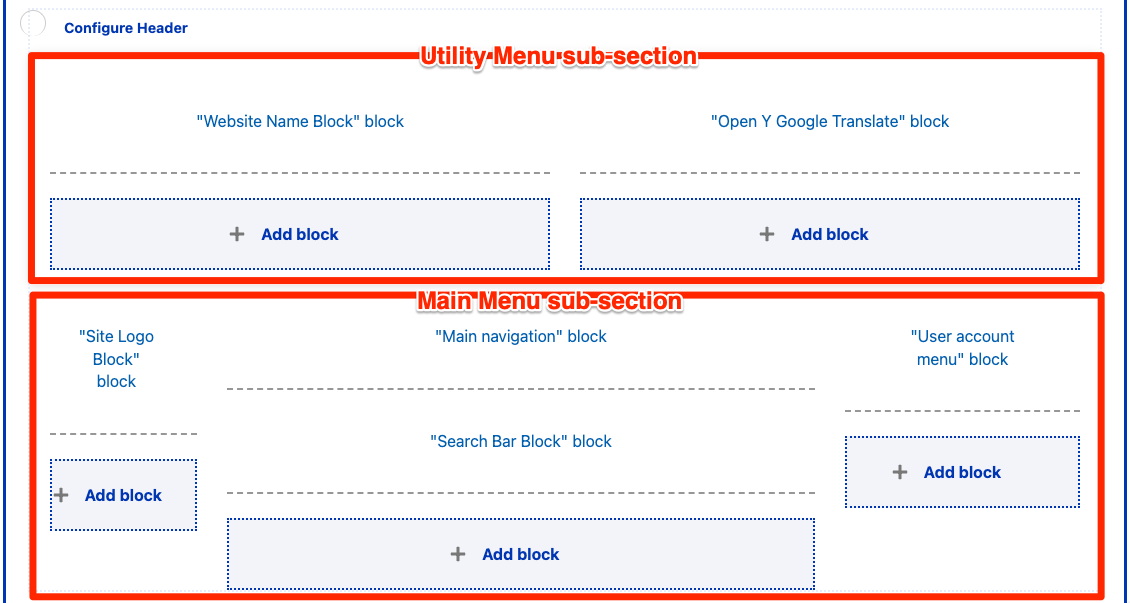
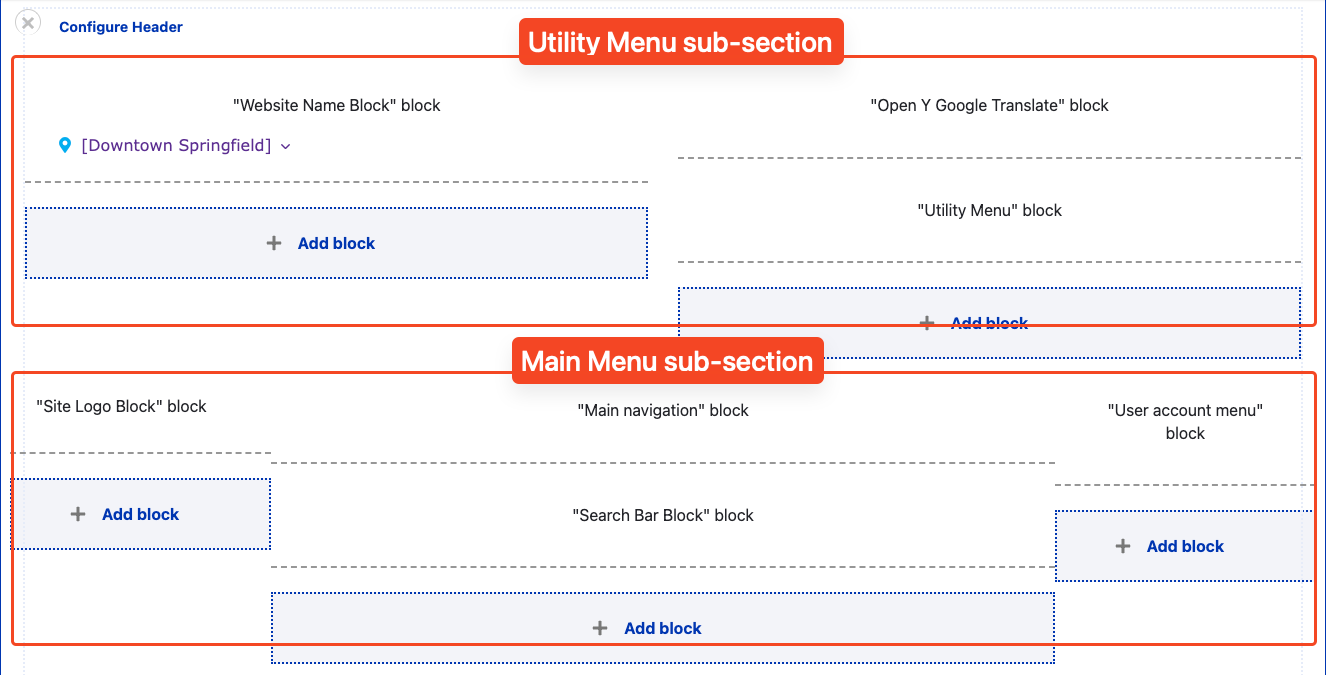
docs: Add lots more small y stuff

diff --git a/content/en/docs/howto/small-y/_index.md b/content/en/docs/howto/small-y/_index.md
@@ -32,6 +32,35 @@ Modules and features included with the Small Y template include:
 
 Any other modules or features of the distribution can be added as needed via the Drupal admin interface.
 
+#### Additions to the main distribution
+
+The Small Y Template provided a number of features back to the main distribution for all YMCA Website Services users to benefit from. These include:
+
+- [Partners/Sponsors](../../user-documentation/layout-builder/partners) block now allow for partners to be split into multiple tiers.
+- [Simple Text/Table](../../user-documentation/layout-builder/table) block now applies responsive table styles more consistently.
+- An additional [Utility Menu](../../user-documentation/layout-builder/header-footer/#utility-menu) has been added to the Header to allow content editors to add additional links in the top right of the header.
+- [Events Listings](../../user-documentation/layout-builder/event-views) and [Articles Listings](../../user-documentation/layout-builder/article-views) have been updated to include a **Number of items** field to limit the number of items displayed.
+- [Alerts](../../user-documentation/content-types/alert) have a new set of styles that follow the colorway color scheme.
+
+#### Small Y Specific Features
+
+The Small Y template includes a few additional features that are not included in the main distribution. These are intended to simplify the setup process for small organizations and add guardrails to keep content consistent.
+
+- Limits have been added to the number of items for the main menu and many components.
+- [Breadcrumbs](../../user-documentation/layout-builder/breadcrumbs) are now automatically added to all pages.
+- Additional variants have been added to the [Banner](../../user-documentation/layout-builder/banner) block. Each banner can be used with the colorway color or grey background.
+  - **Tall** - for use as the primary hero banner on a page.
+  - **Sub-page chevron** - for use as a secondary banner on a page.
+  - **Sub-page chevron (no media)** - for use as a secondary banner on a page with no media.
+  - **Sub-page frame** - for use as a secondary banner on a page with dark text on a white background.
+  - **Promo** - for use as a smaller banner on a page with a call to action and no media. ![A screenshot of the banner variants listed above.](small-y--banner-variants.png)
+- [Ping-pong](../../user-documentation/layout-builder/ping-pong) blocks can be added in sections using the **Ping-pong Section** content block. This allows for alternating content blocks to be added to a page with section-level formatting, instead of block-by-block formatting.
+  - When adding a **Ping-pong Section**, you can choose from two sets of options for the blocks contained within in **Styles** > **Y Styles**.
+    - **Image Alignment** - Choose whether the image starts on the left or right.
+    - **Background colors** - Choose between a colorway, white, or grey background for items in the section. ![The Y Style options for ping-pong blocks.](small-y--ping-pong.png)
+- [Statistics](../../user-documentation/layout-builder/statistics) blocks have been redesigned and have the option to be displayed with a grey or colorway background.
+- [Grid CTA](../../user-documentation/layout-builder/grid-cta) blocks have their CTA buttons moved between the subheading and the items. [Icon Grid](../../user-documentation/layout-builder/icon-grid) blocks have the CTA below the items.
+
 ## Install the Small Y template
 
 The Small Y template can be installed via the YMCA Website Services Installation wizard or the command line.
@@ -41,3 +70,6 @@ The Small Y template can be installed via the YMCA Website Services Installation
 - **Command line**
   - `drush -vy si openy openy_configure_profile.preset=small_y openy_theme_select.theme=openy_carnation openy_terms_of_use.agree_openy_terms=1 install_configure_form.enable_update_status_emails=NULL --account-name=admin --site-name='YMCA Website Services'`
 
+## Build your site
+
+Once you've installed a site with the Small Y template, you can start building your site by adding content and configuring the layout. See [How to set up a Layout Builder site](../set-up-lb).

diff --git a/content/en/docs/user-documentation/layout-builder/partners/_index.md b/content/en/docs/user-documentation/layout-builder/partners/_index.md
@@ -8,6 +8,7 @@ description: Component for displaying logos / info of partners or sponsors withi
         {{< youtube nHxIX6fuTAM >}}
     {{< /tab >}}
     {{% tab header="Diagram" lang="pic" %}}
+![Screenshot showing the field titles overlaid on the design](lb-partners-fields--with-tiers.png)
 ![Screenshot showing the field titles overlaid on the design](lb-partners-fields.png)
     {{% /tab %}}
 {{< /tabpane >}}
@@ -25,9 +26,13 @@ Fill in the content fields:
 - **Title** (required): Never displayed, even if "Display Title" is checked. For administrative use only.
 - **Section heading**: Displayed as a heading above the items.
 - **Section subheading**: Displayed below the heading.
-- **Partner items**: Click **Add new custom block** to add a new Partner item, or **Add existing custom block** to reuse an existing item. Items can be reused across pages. Add unlimited items. Each item has:
-  - **Heading**: The name of the partner.
-  - **Image**: The logo or image.
-  - After filling in the fields for an item, click **Create custom block** to save the item.
+- **Partner tier**: Click **Create content block** to add a new Partner tier. Add unlimited tiers. (Added in the December 2024 release. Prior to that, all partners were displayed in a single group.)
+  - **Block description**: For administrative use only.
+  - **Partner's Tier**: The title of the tier (like "Platinum", "Gold", etc.). Leave this empty if you don't want to display a tier title.
+  - **Partner items**: Click **Add new custom block** to add a new Partner item, or **Add existing custom block** to reuse an existing item. Items can be reused across pages. Add unlimited items. Each item has:
+    - **Heading**: The name of the partner.
+    - **Image**: The logo or image.
+    - **Link**: An internal or external link.
+    - After filling in the fields for an item, click **Create custom block** to save the item.
 
 {{< readfile "../lb-save-block.partial" >}}

diff --git a/content/en/docs/user-documentation/content-types/alert/_index.md b/content/en/docs/user-documentation/content-types/alert/_index.md
@@ -21,6 +21,9 @@ Go to **Admin** > **Content** > **Add Content** > **Alert** (`/node/add/alert`).
 * **Title**: Displays as the headline for your alert.
 * **Description**: The main body of your alert. Sentences should be short and minimally styled in this section. Uses [the Text Editor](../../text-editor).
   - Alert descriptions over 150 characters will be collapsed on mobile devices as of [version 10.3.0 (September 2023)](https://github.com/YCloudYUSA/yusaopeny/releases/tag/10.3.0). ![An animation of an alert being expanded and collapsed](alert--expand-mobile.gif)
+* **Alert Style**: Choose from the **Classic** Alert style which enables the **Color Fields** below or a set of styles that are pre-configured for you to match the YMCA colorways.
+  * **Urgent** options use a colored background with dark or light text.
+  * **Info** options use a grey background with colored text. ![Screenshot depicting 8 different style options.](alert--styles.png)
 * **Color Fields**: These three dropdown fields control different aspects of color in your alert. All three dropdowns reference the [color vocabulary](../../taxonomy/#color).
   * ***Background Color***: The color of your alert.
   * ***Text Color***: Stick to using either black or white for accessibility.

diff --git a/content/en/docs/user-documentation/layout-builder/header-footer/_index.md b/content/en/docs/user-documentation/layout-builder/header-footer/_index.md
@@ -32,6 +32,7 @@ If a Header section does not already exist, add a new Section and choose the **W
     - **Website Name Block**
   - Right
     - **Open Y Google Translate Block**
+    - **Utility Menu**
 - Main Menu area
   - Left
     - **Site Logo Block**
@@ -62,6 +63,19 @@ Each block has some specific configuration recommendations:
 **Content**
 
 - The contents of this block are not configurable, but it may be omitted or removed if your site does not provide translation uses another translation method.
+
+### Utility Menu
+
+The option to add a Utility Menu was added in the December 2024 release. This menu is intended to give content editors an additional space for adding links in the top right of the header.
+
+**Configuration**
+
+- Uncheck **Display title**.
+- **Menu levels** controls which and how many levels of menu are displayed. The Utility menu styles are designed for a single level of links.
+
+**Content**
+
+- Menu items can be managed under **Structure** > **Menus** > **Utility Menu**.
 
 ### Site Logo Block
 
